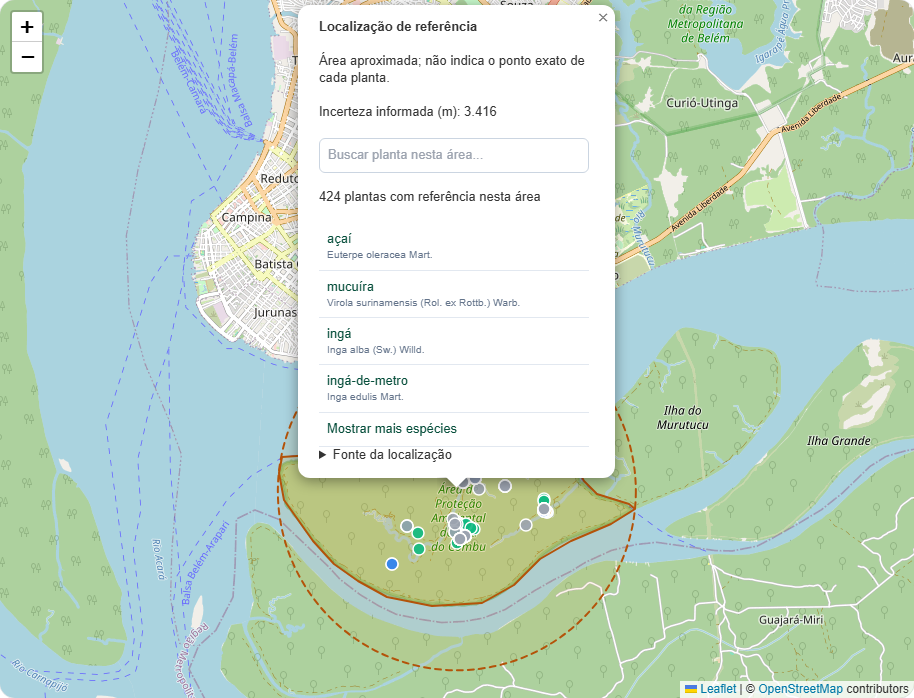
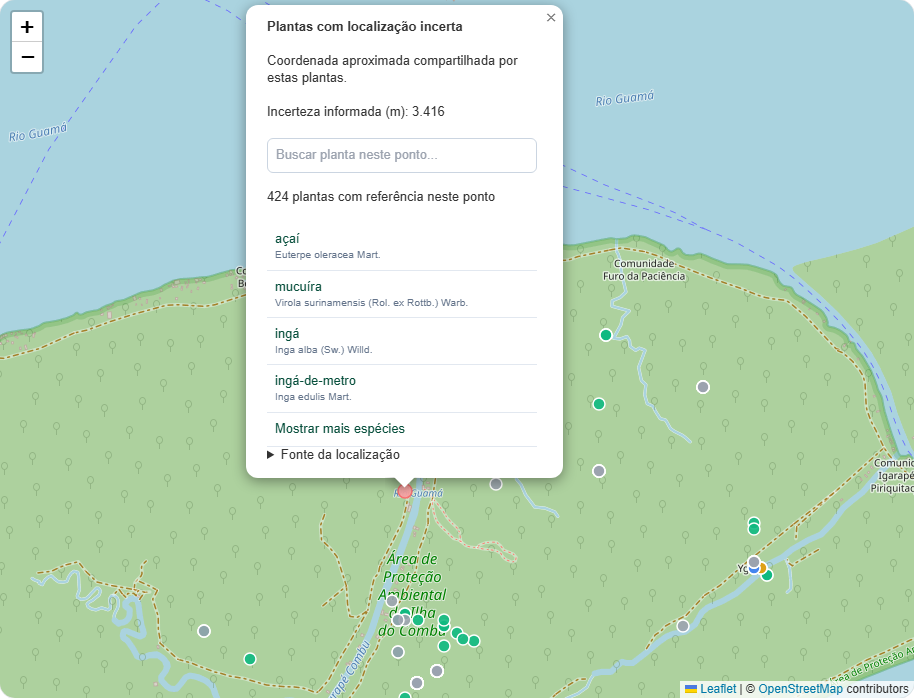
Alterações: 27/10

diff --git a/templates/home.html b/templates/home.html
@@ -95,7 +95,8 @@
             <span>{{ t('Pontos: ocorrências registradas') }}</span>
             <label class="flex items-center gap-2 font-semibold text-emerald-900">
                 <input id="mostrar-referencias" type="checkbox" checked onchange="alternarReferencias()">
-                {{ t('Áreas: localizações incertas') }}
+                <span style="display:inline-block;width:10px;height:10px;border-radius:50%;background:#fca5a5;border:1px solid #f87171" aria-hidden="true"></span>
+                {{ t('Pontos com localização incerta') }}
             </label>
             <span id="referencias-status" role="status"></span>
         </div>
@@ -259,8 +260,6 @@
     document.addEventListener('DOMContentLoaded', function() {
         if (document.getElementById('mapid') && typeof L !== 'undefined') {
             map = L.map('mapid', {zoomControl: false, preferCanvas: true}).setView([-1.45, -48.48], 10);
-            map.createPane('referencias');
-            map.getPane('referencias').style.zIndex = '350';
             L.control.zoom({zoomInTitle: {{ t('Aproximar')|tojson }}, zoomOutTitle: {{ t('Afastar')|tojson }}}).addTo(map);
             map.on('popupopen', () => {
                 const fechar = document.querySelector('#mapid .leaflet-popup-close-button');
@@ -467,15 +466,15 @@
         const popup = document.createElement('div');
         popup.className = 'referencia-popup';
         const titulo = document.createElement('h3');
-        titulo.textContent = {{ t('Localização de referência')|tojson }};
+        titulo.textContent = {{ t('Plantas com localização incerta')|tojson }};
         const aviso = document.createElement('p');
-        aviso.textContent = {{ t('Área aproximada; não indica o ponto exato de cada planta.')|tojson }};
+        aviso.textContent = {{ t('Coordenada aproximada compartilhada por estas plantas.')|tojson }};
         const incerteza = document.createElement('p');
         incerteza.textContent = {{ t('Incerteza informada (m)')|tojson }} + ': ' +
             (area.incerteza === null ? {{ t('Não informado')|tojson }} : new Intl.NumberFormat({{ idioma|tojson }}).format(area.incerteza));
         const busca = document.createElement('input');
         busca.type = 'search';
-        busca.placeholder = {{ t('Buscar planta nesta área...')|tojson }};
+        busca.placeholder = {{ t('Buscar planta neste ponto...')|tojson }};
         busca.setAttribute('aria-label', busca.placeholder);
         const contagem = document.createElement('p');
         contagem.setAttribute('role', 'status');
@@ -506,7 +505,7 @@
                 const p = plantasMapa[t.id - 1];
                 return normalizar(p.nome_cientifico + ' ' + p.nome_popular + ' ' + p.familia).includes(termo);
             });
-            contagem.textContent = resultados.length + ' ' + {{ t('plantas com referência nesta área')|tojson }};
+            contagem.textContent = resultados.length + ' ' + {{ t('plantas com referência neste ponto')|tojson }};
             lista.replaceChildren();
             exibidos = 0;
             adicionarLote();
@@ -527,24 +526,22 @@
         if (!map || referenciasCarregadas || carregandoReferencias) return;
         carregandoReferencias = true;
         const status = document.getElementById('referencias-status');
-        status.textContent = {{ t('Carregando áreas de referência...')|tojson }};
+        status.textContent = {{ t('Carregando pontos de referência...')|tojson }};
         try {
             const resposta = await fetch({{ url_for('referencias_mapa', lang=idioma)|tojson }});
             if (!resposta.ok) throw new Error('HTTP ' + resposta.status);
             const dados = await resposta.json();
             dados.areas.forEach(area => {
-                const camadas = [];
-                const estilo = {pane: 'referencias', color: '#b45309', weight: 2, dashArray: '6 5', fillColor: '#f59e0b', fillOpacity: 0.08};
-                if (area.incerteza > 0) camadas.push(L.circle([area.lat, area.lng], {...estilo, radius: area.incerteza}));
-                if (area.poligono.length) camadas.push(L.polygon(area.poligono, {...estilo, dashArray: null, fillOpacity: 0.12}));
-                if (!camadas.length) return;
-                area.camada = L.featureGroup(camadas).bindPopup(() => criarPopupArea(area), {maxWidth: 320, maxHeight: 450});
+                area.camada = L.circleMarker([area.lat, area.lng], {
+                    radius: 7, color: '#f87171', weight: 1.5,
+                    fillColor: '#fca5a5', fillOpacity: 0.95,
+                }).bindPopup(() => criarPopupArea(area), {maxWidth: 320, maxHeight: 450});
                 areasReferencia.push(area);
             });
             referenciasCarregadas = true;
             filtrarMapaUnico(categoriaMapa);
         } catch (erro) {
-            status.textContent = {{ t('Não foi possível carregar as áreas de referência. Desative e ative a opção para tentar novamente.')|tojson }};
+            status.textContent = {{ t('Não foi possível carregar os pontos de referência. Desative e ative a opção para tentar novamente.')|tojson }};
         } finally {
             carregandoReferencias = false;
         }
@@ -582,7 +579,7 @@
             } else { map.removeLayer(m); }
         });
         atualizarAreasReferencia().forEach(area => {
-            pontosVisiveis.push(area.camada.getBounds().getNorthEast(), area.camada.getBounds().getSouthWest());
+            pontosVisiveis.push(area.camada.getLatLng());
         });
         if (pontosVisiveis.length) map.fitBounds(pontosVisiveis, {padding: [30, 30], maxZoom: 15, animate: false});
         atualizarStatusMapa();

diff --git a/i18n.py b/i18n.py
@@ -2,6 +2,13 @@
 from flask import request, url_for
 
 EN = {
+    'Pontos com localização incerta': 'Points with uncertain locations',
+    'Plantas com localização incerta': 'Plants with uncertain locations',
+    'Coordenada aproximada compartilhada por estas plantas.': 'Approximate coordinate shared by these plants.',
+    'Buscar planta neste ponto...': 'Find a plant at this point...',
+    'plantas com referência neste ponto': 'plants referenced at this point',
+    'Carregando pontos de referência...': 'Loading reference points...',
+    'Não foi possível carregar os pontos de referência. Desative e ative a opção para tentar novamente.': 'Reference points could not be loaded. Turn the option off and on to try again.',
     'Pontos: ocorrências registradas': 'Points: recorded occurrences',
     'Áreas: localizações incertas': 'Areas: uncertain locations',
     'Localização de referência': 'Reference location',

diff --git a/README.md b/README.md
@@ -58,7 +58,7 @@ The public application reads `dados/Appendix_S1_Occurrence_records_PT.xlsx` and 
 
 The `Occurrences` tab provides the records. `dynamicProperties` supplies the curated use and plant-part vocabularies, and `Vocabularies` defines the Portuguese/English terms. Scientific names, vernacular names and source citations remain as recorded by the authors. Reading does not rewrite either workbook. Restart the application after replacing both files with a new matching version.
 
-Of the 1,183 records, 260 have `georeferenceLevel=occurrence` and 923 have `georeferenceLevel=area`. The map shows the occurrence points and a separate, initially visible layer for uncertain reference locations. `/referencias-mapa` loads the area data independently. The 923 area records for 424 taxa share the APA Ilha do Combu footprint, so they are grouped into one searchable area rather than stacked at the same coordinate. The source's EPSG:4326 polygon and 3,416 m uncertainty radius are rendered beneath occurrence points. The layer follows category filters, can be hidden, and links each taxon to its record sheet. It describes an approximate reference area, not the exact position of a plant; no estimated individual points are generated. Leaflet 1.9.4 and its BSD license are bundled under `static/vendor/leaflet/` to avoid a dependency on the library CDN. Background tiles still come from OpenStreetMap.
+Of the 1,183 records, 260 have `georeferenceLevel=occurrence` and 923 have `georeferenceLevel=area`. The map shows the occurrence points and light-red dots for uncertain reference locations, initially visible. `/referencias-mapa` loads their metadata independently. The 923 uncertain records for 424 taxa share the same reference coordinate in the APA Ilha do Combu, so one dot at that unchanged coordinate opens a searchable list of the associated plants. No polygon or uncertainty-radius area is drawn. The source's 3,416 m uncertainty remains in the popup. The dots follow category filters, can be hidden, and link each taxon to its record sheet. No individual coordinates are invented or scattered. Leaflet 1.9.4 and its BSD license are bundled under `static/vendor/leaflet/` to avoid a dependency on the library CDN. Background tiles still come from OpenStreetMap.
 
 Photos come from `dados/Fotos faltantes - Catálogo Munguba.xlsx`, read without modifying the workbook. Include this file in deployments. It is cached for one hour; restart the application to apply a replacement immediately. Original image URLs remain in the metadata; the bundled local WebP versions described below are used when available. Only when the workbook is absent does the application use the public Google photo sheet, tab `1140076266`, configurable with `FOTOS_PLANILHA_ID` and `FOTOS_PLANILHA_GID`. Matching tries accepted and original recorded names, including binomials without authorship. Valid medium-resolution images are used when high-resolution links are missing or raw Deep Zoom files; FSI raster image endpoints are supported. Sheet photos keep their author, license and source; local images and the placeholder are fallbacks. Failed reads are retried after one minute.
 
